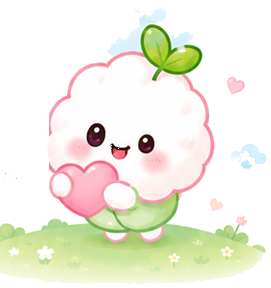
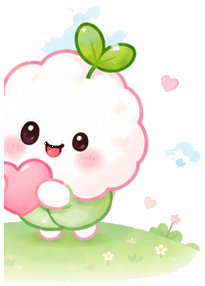
Rework hero as crisp native text + small mascot, add Somtori profile card
- Hero: eyebrow sits above a single-column message block with crisp,
  larger native white quote text and a smaller side-by-side mascot
  illustration (previously a raster card, now text is sharp at any
  size and the character no longer competes with the copy).
- Fix ghost text bleeding into the standalone mascot cutout by hard-
  clearing the text-zone columns before re-trimming.
- Add a Somtori character profile card (name origin, birthday,
  personality, likes) with a one-click PNG download of the mascot art.

diff --git a/index.html b/index.html
@@ -204,17 +204,33 @@ section { padding: 120px 0; position: relative; }
   content: ""; width: 6px; height: 6px; border-radius: 50%;
   background: var(--accent); flex-shrink: 0;
 }
-.hero-grid { display: grid; grid-template-columns: 0.8fr 1.2fr; gap: 32px; align-items: center; }
-.hero-ctas { display: flex; gap: 14px; margin-top: 30px; flex-wrap: wrap; }
-.hero-illustration { display: flex; justify-content: center; }
-.hero-quote-card {
-  width: 100%; max-width: 760px; display: block;
-  filter: drop-shadow(0 18px 30px rgba(0,0,0,0.22));
+.hero-stack { max-width: 780px; }
+.hero-message { display: flex; align-items: center; gap: 28px; margin: 26px 0 22px; }
+.hero-quote {
+  flex: 1;
+  font-family: var(--font-display); font-weight: 700;
+  font-size: clamp(28px, 4vw, 44px);
+  line-height: 1.38;
+  color: #fff;
+  text-shadow: 0 2px 20px rgba(0,0,0,0.35);
 }
-@media (max-width: 900px) {
-  .hero-grid { grid-template-columns: 1fr; }
-  .hero-illustration { order: -1; }
-  .hero-quote-card { max-width: 480px; margin: 0 auto; }
+.hero-quote .accent { color: var(--accent); }
+.hero-mascot-small { width: 130px; flex-shrink: 0; filter: drop-shadow(0 10px 18px rgba(0,0,0,0.25)); }
+.hero-sub {
+  font-family: var(--font-display);
+  font-size: clamp(16px, 1.4vw, 19px);
+  color: rgba(255,255,255,0.82);
+  max-width: 560px;
+  line-height: 1.75;
+}
+.hero-tagline {
+  font-family: var(--font-display); font-weight: 700; font-size: 16px;
+  color: var(--accent); margin-top: 16px;
+}
+.hero-ctas { display: flex; gap: 14px; margin-top: 32px; flex-wrap: wrap; }
+@media (max-width: 700px) {
+  .hero-message { flex-direction: column; align-items: flex-start; gap: 16px; }
+  .hero-mascot-small { width: 110px; align-self: center; }
 }
 .hero-scroll {
   position: absolute; bottom: 36px; left: 50%;
@@ -245,25 +261,39 @@ section { padding: 120px 0; position: relative; }
 
 /* ============ name story ============ */
 .name-story { background: var(--bg-soft); }
-.name-story-grid { display: grid; grid-template-columns: 0.85fr 1.3fr; gap: 56px; align-items: center; }
-.name-story-mascot { display: flex; justify-content: center; }
-.name-story-mascot img { width: 100%; max-width: 300px; display: block; filter: drop-shadow(0 16px 26px rgba(58,40,0,0.16)); }
+.name-story-intro { max-width: 700px; margin: 0 auto 48px; text-align: center; }
 .name-story-label {
   font-family: var(--font-body); font-size: 13px; color: var(--accent-3);
   font-weight: 500; letter-spacing: 0.08em; text-transform: uppercase; margin-bottom: 14px; display: block;
 }
-.name-story-text h2 { font-size: clamp(28px, 3.4vw, 42px); margin-bottom: 22px; text-wrap: balance; }
-.name-story-hello {
-  font-family: var(--font-display); font-size: 22px; font-weight: 700;
-  margin-bottom: 16px; color: var(--ink);
+.name-story-intro h2 { font-size: clamp(28px, 3.4vw, 42px); margin-bottom: 20px; text-wrap: balance; }
+.name-story-intro p { font-size: 15.5px; color: var(--ink-soft); line-height: 1.85; }
+.name-story-intro strong { color: var(--ink); font-weight: 700; }
+
+.somtori-card {
+  display: grid; grid-template-columns: 0.8fr 1.2fr; gap: 48px; align-items: center;
+  background: var(--card); border: 1px solid var(--line); border-radius: var(--radius-xl);
+  padding: 48px; box-shadow: var(--shadow);
 }
-.name-story-hello strong { color: var(--accent-3); }
-.name-story-text p { font-size: 15.5px; color: var(--ink-soft); line-height: 1.85; margin-bottom: 14px; }
-.name-story-text p:last-child { margin-bottom: 0; }
-.name-story-text strong { color: var(--ink); font-weight: 700; }
+.somtori-photo { display: flex; justify-content: center; }
+.somtori-photo img { width: 100%; max-width: 260px; display: block; filter: drop-shadow(0 16px 26px rgba(58,40,0,0.16)); }
+.somtori-label {
+  font-family: var(--font-body); font-size: 13px; color: var(--accent-3);
+  font-weight: 500; letter-spacing: 0.08em; text-transform: uppercase; margin-bottom: 10px; display: block;
+}
+.somtori-name { font-size: clamp(26px, 3vw, 34px); color: var(--accent-3); margin-bottom: 16px; }
+.somtori-desc { font-size: 15px; color: var(--ink-soft); line-height: 1.8; margin-bottom: 26px; }
+.somtori-desc strong { color: var(--ink); font-weight: 700; }
+.somtori-profile { border-top: 1px solid var(--line); margin-bottom: 28px; }
+.somtori-profile-row {
+  display: grid; grid-template-columns: 110px 1fr; gap: 12px;
+  padding: 13px 0; border-bottom: 1px solid var(--line); font-size: 14.5px;
+}
+.somtori-profile-row strong { font-weight: 600; color: var(--ink); }
+.somtori-profile-row span { color: var(--ink-soft); }
 @media (max-width: 860px) {
-  .name-story-grid { grid-template-columns: 1fr; gap: 28px; text-align: center; }
-  .name-story-mascot img { max-width: 220px; }
+  .somtori-card { grid-template-columns: 1fr; gap: 28px; padding: 32px 24px; text-align: center; }
+  .somtori-profile-row { grid-template-columns: 1fr; gap: 2px; text-align: left; }
 }
 
 /* ============ philosophy ============ */
@@ -598,22 +628,23 @@ footer { padding: 64px 0 40px; border-top: 1px solid var(--line); margin-top: 80
   <div class="hero-bg"></div>
   <div class="hero-overlay"></div>
   <div class="hero-content">
-    <div class="container hero-grid">
-      <div class="hero-text">
-        <span class="hero-eyebrow">공공형 어린이집 · 2027학년도 원아 모집 중</span>
-        <div class="hero-ctas">
-          <a href="https://open.kakao.com/o/sK8pgg4g" target="_blank" rel="noopener" class="btn btn-sun btn-sm">
-            <img src="images/mascot-hello.png" alt="" class="btn-sticker">
-            상담 신청하기
-          </a>
-          <a href="#about" class="btn btn-sun btn-sm">
-            <img src="images/mascot-yay.png" alt="" class="btn-sticker">
-            어린이집 둘러보기
-          </a>
-        </div>
+    <div class="container hero-stack">
+      <span class="hero-eyebrow">공공형 어린이집 · 2027학년도 원아 모집 중</span>
+      <div class="hero-message">
+        <p class="hero-quote">"작은 설탕 알갱이가 솜사탕으로 피어나듯,<br>아이들의 작은 가능성이 사랑을 만나<br><span class="accent">아름답게 성장한다</span>"</p>
+        <img src="images/mascot-solo.png" alt="솜토리" class="hero-mascot-small">
       </div>
-      <div class="hero-illustration">
-        <img src="images/mascot-quote.png" alt="작은 설탕 알갱이가 솜사탕으로 피어나듯, 아이들의 작은 가능성이 사랑을 만나 아름답게 성장한다" class="hero-quote-card">
+      <p class="hero-sub">솜사탕은 작고 하얀 설탕 알갱이가 따뜻한 바람을 만나 보드랍고 달콤한 솜사탕이 되는 것처럼, 아이도 사랑과 관심, 좋은 경험을 만나 자신만의 빛깔로 아름답게 자랍니다.</p>
+      <p class="hero-tagline">우리는 그 과정을 함께하는 '솜사탕의 친구'입니다.</p>
+      <div class="hero-ctas">
+        <a href="https://open.kakao.com/o/sK8pgg4g" target="_blank" rel="noopener" class="btn btn-sun btn-sm">
+          <img src="images/mascot-hello.png" alt="" class="btn-sticker">
+          상담 신청하기
+        </a>
+        <a href="#about" class="btn btn-sun btn-sm">
+          <img src="images/mascot-yay.png" alt="" class="btn-sticker">
+          어린이집 둘러보기
+        </a>
       </div>
     </div>
   </div>
@@ -624,17 +655,33 @@ footer { padding: 64px 0 40px; border-top: 1px solid var(--line); margin-top: 80
 </section>
 
 <!-- NAME STORY -->
-<section class="name-story">
-  <div class="container name-story-grid">
-    <div class="name-story-mascot">
-      <img src="images/mascot-solo.png" alt="솜토리">
-    </div>
-    <div class="name-story-text">
+<section class="name-story" id="somtori">
+  <div class="container">
+    <div class="name-story-intro">
       <span class="name-story-label">OUR STORY</span>
       <h2>솜사탕어린이집,<br>이름에 담긴 이야기</h2>
-      <p class="name-story-hello">안녕하세요, 저는 <strong>솜토리</strong>예요!</p>
-      <p>작고 하얀 설탕 알갱이가 따뜻한 바람을 만나 보드랍고 달콤한 솜사탕이 되는 것처럼, 아이도 사랑과 관심, 좋은 경험을 만나 자신만의 빛깔로 아름답게 자랍니다.</p>
-      <p>그 이름처럼 <strong>솜사탕어린이집</strong>은 아이 한 명 한 명이 자신만의 속도로, 자신만의 빛깔로 피어날 수 있도록 곁에서 기다리고 함께합니다. 그 성장의 순간마다 솜토리가 함께해요.</p>
+      <p>작고 하얀 설탕 알갱이가 따뜻한 바람을 만나 보드랍고 달콤한 솜사탕이 되는 것처럼, 아이도 사랑과 관심, 좋은 경험을 만나 자신만의 빛깔로 아름답게 자랍니다. 그 이름처럼 <strong>솜사탕어린이집</strong>은 아이 한 명 한 명이 자신만의 속도로, 자신만의 빛깔로 피어날 수 있도록 곁에서 기다리고 함께합니다.</p>
+    </div>
+    <div class="somtori-card">
+      <div class="somtori-photo">
+        <img src="images/mascot-solo.png" alt="솜토리">
+      </div>
+      <div class="somtori-info">
+        <span class="somtori-label">CHARACTER</span>
+        <h3 class="somtori-name">솜토리</h3>
+        <p class="somtori-desc"><strong>'솜사탕'</strong>과 <strong>'스토리(이야기)'</strong>를 합친 이름으로, 아이들의 하루하루가 저마다 소중한 이야기가 된다는 마음을 담았어요. 그 이야기를 곁에서 함께 채워가는 솜사탕어린이집의 친구예요.</p>
+        <div class="somtori-profile">
+          <div class="somtori-profile-row"><strong>생일</strong><span>2007년 5월 1일</span></div>
+          <div class="somtori-profile-row"><strong>성별</strong><span>없음 · 모두의 친구</span></div>
+          <div class="somtori-profile-row"><strong>성격</strong><span>다정하고 마음씨 따뜻해요</span></div>
+          <div class="somtori-profile-row"><strong>좋아하는 것</strong><span>아이들, 자연, 색연필, 노래</span></div>
+          <div class="somtori-profile-row"><strong>특기</strong><span>공감하기, 함께 웃기, 곁에서 지켜주기</span></div>
+        </div>
+        <a href="images/mascot-solo.png" download="솜토리.png" class="btn btn-sun">
+          솜토리 이모티콘 다운로드
+          <svg class="arrow-inline" viewBox="0 0 24 24" fill="none" stroke="currentColor" stroke-width="2" stroke-linecap="round" stroke-linejoin="round"><path d="M21 15v4a2 2 0 0 1-2 2H5a2 2 0 0 1-2-2v-4"/><polyline points="7 10 12 15 17 10"/><line x1="12" y1="15" x2="12" y2="3"/></svg>
+        </a>
+      </div>
     </div>
   </div>
 </section>
